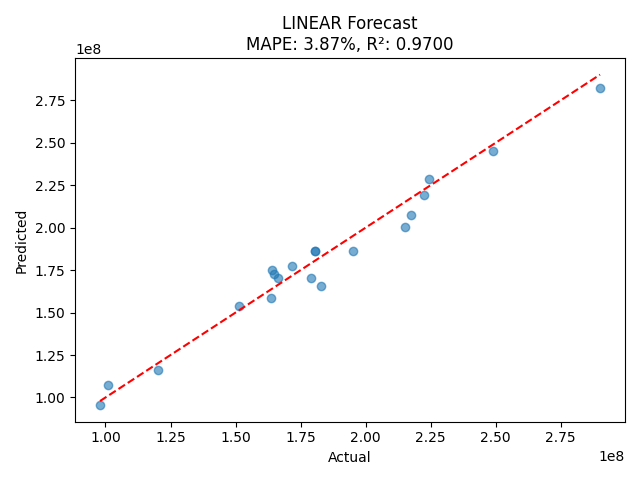
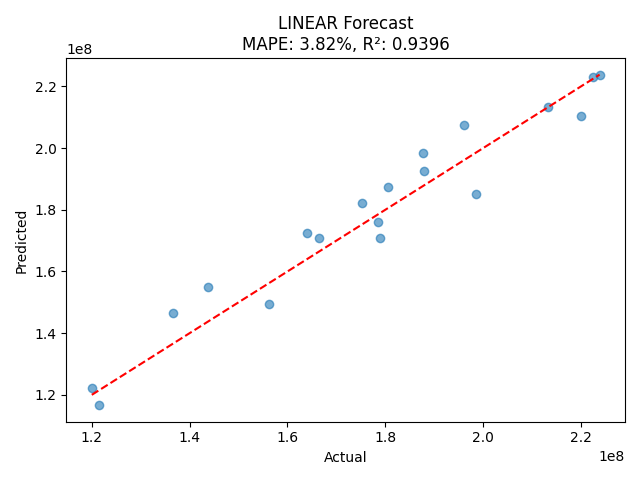
update lag code

diff --git a/lag_feature/main.py b/lag_feature/main.py
@@ -20,11 +20,17 @@ FORECAST_OUTPUT_DIR = os.getcwd()  # Save in the same folder as the script
 df = pd.read_csv("data.csv")
 df.columns = df.columns.str.strip()
 
+# Clean and convert columns
 df[FEATURE] = df[FEATURE].astype(str).str.replace(",", "").astype(float)
 df[TARGET] = df[TARGET].astype(str).str.replace(",", "").astype(float)
 
-df_train = df.dropna(subset=[FEATURE, TARGET])
-X = df_train[[FEATURE]].values
+# ---- Create Lag Features ---- #
+df["lag_1"] = df[FEATURE].shift(1)
+df["lag_2"] = df[FEATURE].shift(2)
+
+# Filter for training: drop rows with NaNs in lags or target
+df_train = df.dropna(subset=[FEATURE, TARGET, "lag_1", "lag_2"])
+X = df_train[[FEATURE, "lag_1", "lag_2"]].values
 y = df_train[TARGET].values
 
 # ---- Train/Test Split ---- #
@@ -32,7 +38,10 @@ X_train, X_test, y_train, y_test = train_test_split(X, y, test_size=0.2, random_
 
 # ---- Prepare Future Inputs ---- #
 df_future = df[df[TARGET].isna()].copy()
-X_future = df_future[[FEATURE]].values
+df_future["lag_1"] = df[FEATURE].shift(1)
+df_future["lag_2"] = df[FEATURE].shift(2)
+df_future = df_future.dropna(subset=["lag_1", "lag_2"])
+X_future = df_future[[FEATURE, "lag_1", "lag_2"]].values
 
 # ---- Define Models ---- #
 models = {
@@ -63,10 +72,7 @@ for name, model in models.items():
     # Forecast
     if X_future.shape[0] > 0:
         df_future[name] = model.predict(X_future)
-
-        # Save forecast
-        forecast_path = os.path.join(FORECAST_OUTPUT_DIR, f"{name}_forecast.csv")
-        df_future.to_csv(forecast_path, index=False)
+        df_future.to_csv(os.path.join(FORECAST_OUTPUT_DIR, f"{name}_forecast.csv"), index=False)
 
     # Plot actual vs predicted
     plt.figure()
@@ -76,11 +82,8 @@ for name, model in models.items():
     plt.ylabel("Predicted")
     plt.title(f"{name.upper()} Forecast\nMAPE: {mape:.2%}, R²: {r2:.4f}")
     plt.tight_layout()
-
-    plot_path = os.path.join(FORECAST_OUTPUT_DIR, f"{name}_forecast.png")
-    plt.savefig(plot_path)
+    plt.savefig(os.path.join(FORECAST_OUTPUT_DIR, f"{name}_forecast.png"))
     plt.close()
 
 # ---- Save Metrics ---- #
-df_metrics = pd.DataFrame(metrics)
-df_metrics.to_csv(os.path.join(FORECAST_OUTPUT_DIR, "model_metrics.csv"), index=False)
+pd.DataFrame(metrics).to_csv(os.path.join(FORECAST_OUTPUT_DIR, "model_metrics.csv"), index=False)
